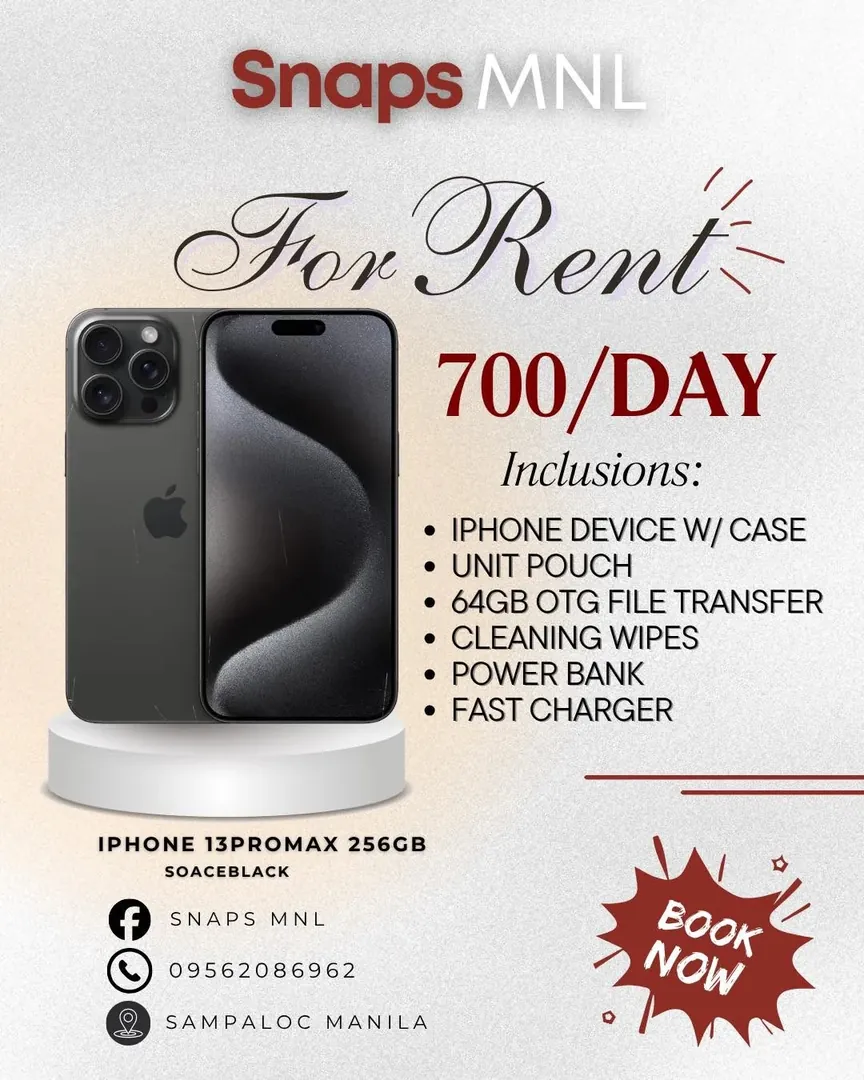
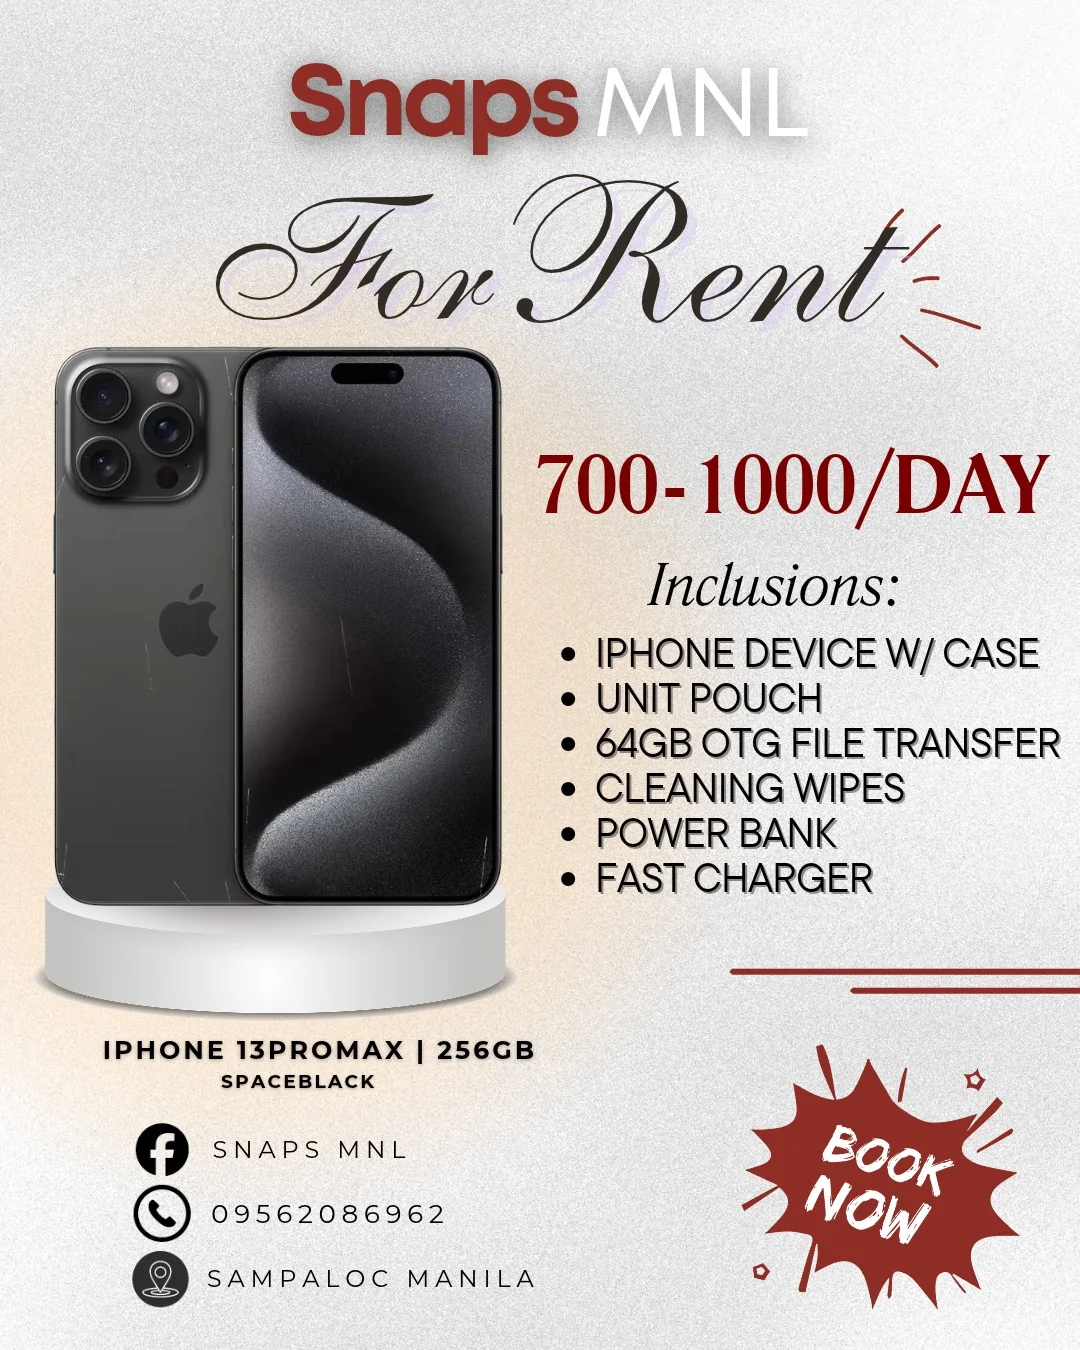
Rental: new rates poster, new unit posters, rates picture, 128GB OTG (#93)
* Add Snaps MNL phone rental booking page

Customers choose an iPhone, dates and hand-over, fill in their details and
agree to the rental terms. The page turns it into one booking message to
send on Messenger or by SMS; its labelled lines can be pasted into the
rental tracker. Shop details, models and rates are set in the SHOP block.

Claude-Session: https://claude.ai/code/session_01S7sDTBNGFBgL9AU7PC3pZN

* Use Snaps MNL's real phones, rates and inclusions on the booking page

Lists the five rental units with storage, colour and daily rate, shows the
rental estimate, and adds an "Every rental includes" section. The booking
message names the exact unit so the tracker can match it by colour.

Claude-Session: https://claude.ai/code/session_01S7sDTBNGFBgL9AU7PC3pZN

* Add Messenger link and ₱500 deposit; rename 13 Pro Max to Graphite

The Messenger button now opens the Snaps MNL page, the footer links to it,
and the estimate, booking message and steps show the refundable deposit.

Claude-Session: https://claude.ai/code/session_01S7sDTBNGFBgL9AU7PC3pZN

* Booking page: list "Get your deposit back" after "Return it on time"

Claude-Session: https://claude.ai/code/session_01S7sDTBNGFBgL9AU7PC3pZN

* Booking page: full renter information form and rental policies

Matches the Snaps MNL booking form: address, phone, usage purpose, social
handle, pick-up and return times, emergency contact, the three requirement
[…]

diff --git a/rent/admin/index.html b/rent/admin/index.html
@@ -449,6 +449,7 @@ h1,h2,h3{font-family:var(--display);font-stretch:112%;font-weight:800;line-heigh
     <section id="rates" hidden>
       <section class="card">
         <div class="chart-head"><div><h2>Daily rates</h2><p>The regular rate, and the higher rate on in-demand dates. The booking page shows each unit as a range, like ₱600 – ₱800 / day.</p></div></div>
+        <div class="suggest" id="posterUpdate" hidden style="flex-direction:column;align-items:stretch"></div>
         <div id="rateRows" style="margin-top:12px"></div>
         <div style="display:flex;gap:10px;align-items:center;margin-top:14px;flex-wrap:wrap"><button class="btn brand" type="button" id="ratesSave">Save rates</button><span class="err" id="ratesErr" role="alert"></span></div>
       </section>
@@ -745,7 +746,7 @@ h1,h2,h3{font-family:var(--display);font-stretch:112%;font-weight:800;line-heigh
         if(d && (d.error === 'signed_out' || d.error === 'bad_request')){ setToken(''); showEntry(''); return; }
         $('loadbar').textContent = 'Couldn\'t load. Tap Refresh.'; return;
       }
-      DATA = d; DATA.demandDates = d.demandDates || []; DATA.expenses = d.expenses || []; DATA.trackFrom = d.trackFrom || '';
+      DATA = d; DATA.demandDates = d.demandDates || []; DATA.inclusions = d.inclusions; DATA.ratesNote = d.ratesNote; DATA.rateCards = d.rateCards || []; DATA.expenses = d.expenses || []; DATA.trackFrom = d.trackFrom || '';
       DATA.allBookings = d.bookings || []; DATA.bookings = DATA.allBookings.filter(inScope);
       cleanText();
       $('shopName').textContent = d.shop.name || 'Phone rentals';
@@ -1140,7 +1141,50 @@ h1,h2,h3{font-family:var(--display);font-stretch:112%;font-weight:800;line-heigh
   /* New units: the form, and (on Snaps MNL's own page) a unit with a poster already on the site, ready to add. */
   var SUGGESTED = [{ id: '17pm-orange', name: 'iPhone 17 Pro Max', detail: '256GB · Cosmic Orange', rate: 1500, rateHigh: 2500, monthName: '17pm', first: true,
     poster: 'https://jeabels.github.io/photobooth-download/rent/units/iphone-17-pro-max-cosmic-orange.webp' }];
+  /* Snaps MNL's rates poster (Nov 2026): the rates, the 13 Pro Max now called Space Black, a 128GB OTG,
+     discounts for longer rentals, and the all-units rates picture. Offered once, while the sheet differs. */
+  var POSTER = {
+    units: { '17pm-orange': [1500, 2500], '16pro-desert': [1000, 2000], '14pm-black': [800, 1200], '13pm-blue': [700, 1000],
+      '13pm-graphite': [700, 1000, '256GB · Space Black'], '13-starlight-z1': [600, 800], '13-starlight-j2': [600, 800] },
+    note: 'Rates vary by date. In-demand dates (holidays, concerts and big events) use the higher in-demand rate. Discounted rates depending on the number of days rented: message us for longer rentals.',
+    rates: 'https://jeabels.github.io/photobooth-download/rent/units/rates-all-units.webp'
+  };
+  function posterChanges(){
+    if(foreign) return null;
+    var rates = [], lines = [];
+    DATA.units.forEach(function(u){
+      var p = POSTER.units[u.id]; if(!p) return;
+      var newDetail = p[2] && p[2] !== u.detail ? p[2] : null;
+      if(u.rate === p[0] && u.rateHigh === p[1] && !newDetail) return;
+      rates.push({ id: u.id, rate: p[0], rateHigh: p[1], detail: newDetail });
+      lines.push(u.name + ' · ' + (newDetail || u.detail) + ': ' + peso(p[0]) + ' – ' + peso(p[1]) + ' / day' +
+        (u.rate !== p[0] || u.rateHigh !== p[1] ? ' (was ' + peso(u.rate) + ' – ' + peso(u.rateHigh || u.rate) + ')' : '') + (newDetail ? ', renamed from ' + u.detail : ''));
+    });
+    var values = {};
+    if(/64\s*GB OTG/i.test(DATA.inclusions || '')){ values['Included with every rental'] = DATA.inclusions.replace(/64\s*GB OTG/i, '128GB OTG'); lines.push('Inclusions: 128GB OTG file transfer (was 64GB)'); }
+    if(!/discount/i.test(DATA.ratesNote || '')){ values['Rates note'] = POSTER.note; lines.push('Rates reminder: adds "Discounted rates depending on the number of days rented"'); }
+    if((DATA.rateCards || []).indexOf(POSTER.rates) < 0){ values['Rate card images'] = (DATA.rateCards || []).concat([POSTER.rates]).join('\n'); lines.push('The all-units RATES picture, above the units'); }
+    return lines.length ? { rates: rates, values: values, lines: lines } : null;
+  }
+  function posterBox(){
+    var box = $('posterUpdate'), ch = posterChanges();
+    box.innerHTML = ''; box.hidden = !ch;
+    if(!ch) return;
+    box.appendChild(el('b', '', 'Update to your new rates poster'));
+    var ul = el('ul'); ul.style.margin = '6px 0 4px 18px'; ul.style.fontSize = '13.5px';
+    ch.lines.forEach(function(t){ ul.appendChild(el('li', '', t)); }); box.appendChild(ul);
+    var go = el('button', 'btn brand small', 'Apply all'); go.type = 'button'; go.style.alignSelf = 'flex-start';
+    go.addEventListener('click', function(){
+      go.disabled = true; go.textContent = 'Saving…';
+      (ch.rates.length ? api('saveRates', { rates: ch.rates }) : Promise.resolve({ ok: true }))
+        .then(function(d){ if(!(d && d.ok)) throw d; if(d.units) DATA.units = d.units; return Object.keys(ch.values).length ? api('saveSettings', { values: ch.values }) : { ok: true }; })
+        .then(function(d){ if(!(d && d.ok)) throw d; toast('Rates updated. The booking page shows them within a minute.'); load(); },
+          function(d){ go.disabled = false; go.textContent = 'Apply all'; alert(d && d.error === 'bad_request' ? ERR.old_script : d && d.error === 'signed_out' ? 'You were signed out. Sign in again.' : 'Couldn\'t save. Try again.'); });
+    });
+    box.appendChild(go);
+  }
   function suggestUnits(){
+    posterBox();
     var box = $('unitSuggest'), norm = function(x){ return String(x || '').toLowerCase().replace(/[^a-z0-9]/g, ''); };
     var todo = foreign ? [] : SUGGESTED.filter(function(x){ return !DATA.units.some(function(u){ return u.id === x.id || norm(u.name + u.detail) === norm(x.name + x.detail); }); });
     box.innerHTML = ''; box.hidden = !todo.length;

diff --git a/rent/index.html b/rent/index.html
@@ -40,13 +40,13 @@ var SHOP = {
   /* How the banner sits in the header: zoom in % (100 shows the whole width), the point that stays
      in view when zoomed (left-right, top-bottom %), and its shape as width / height (0 = the picture's own). */
   bannerZoom: 100, bannerX: 50, bannerY: 50, bannerShape: 0,
-  rateCards: [],          /* price list pictures shown above the units */
+  rateCards: ["units/rates-all-units.webp"],   /* price list pictures shown above the units */
   delivery: [],           /* [{ area, fee }] delivery areas; empty means renters pay the courier themselves */
   promos: false,          /* true shows the promo code box (codes are checked by the booking sheet) */
   /* Each unit has a regular `rate` and a `rateHigh` for in-demand dates: [{ from, to, label }] as
      "YYYY-MM-DD". A rental day that touches an in-demand date is charged rateHigh. */
   demandDates: [],
-  ratesNote: "Rates vary by date. In-demand dates (holidays, concerts and big events) use the higher in-demand rate.",
+  ratesNote: "Rates vary by date. In-demand dates (holidays, concerts and big events) use the higher in-demand rate. Discounted rates depending on the number of days rented: message us for longer rentals.",
   deposit: 500,
   hoursPerDay: 25,        /* one rental day = 25 hours from pick-up */
   lateFeePerHour: 100,
@@ -58,17 +58,17 @@ var SHOP = {
   /* `id` must match UNIT_IDS in rent/google-sheet/Code.gs (the sheet's Unit ID column). */
   models: [
     { id: "17pm-orange",     name: "iPhone 17 Pro Max", detail: "256GB · Cosmic Orange",   rate: 1500, rateHigh: 2500, poster: "units/iphone-17-pro-max-cosmic-orange.webp" },
-    { id: "16pro-desert",    name: "iPhone 16 Pro",     detail: "128GB · Desert Titanium", rate: 1000, rateHigh: 1800, poster: "units/iphone-16-pro-desert-titanium.webp" },
-    { id: "14pm-black",      name: "iPhone 14 Pro Max", detail: "128GB · Space Black",     rate: 800,  rateHigh: 1100, poster: "units/iphone-14-pro-max.webp" },
-    { id: "13pm-blue",       name: "iPhone 13 Pro Max", detail: "256GB · Sierra Blue",     rate: 700,  rateHigh: 900, poster: "units/iphone-13-pro-max-sierra-blue.webp" },
-    { id: "13pm-graphite",   name: "iPhone 13 Pro Max", detail: "256GB · Graphite",        rate: 700,  rateHigh: 900, poster: "units/iphone-13-pro-max-graphite.webp" },
+    { id: "16pro-desert",    name: "iPhone 16 Pro",     detail: "128GB · Desert Titanium", rate: 1000, rateHigh: 2000, poster: "units/iphone-16-pro-desert-titanium.webp" },
+    { id: "14pm-black",      name: "iPhone 14 Pro Max", detail: "128GB · Space Black",     rate: 800,  rateHigh: 1200, poster: "units/iphone-14-pro-max.webp" },
+    { id: "13pm-blue",       name: "iPhone 13 Pro Max", detail: "256GB · Sierra Blue",     rate: 700,  rateHigh: 1000, poster: "units/iphone-13-pro-max-sierra-blue.webp" },
+    { id: "13pm-graphite",   name: "iPhone 13 Pro Max", detail: "256GB · Space Black",     rate: 700,  rateHigh: 1000, poster: "units/iphone-13-pro-max-graphite.webp" },
     { id: "13-starlight-z1", name: "iPhone 13",         detail: "128GB · Starlight #Z1",   rate: 600,  rateHigh: 800, poster: "units/iphone-13-starlight.webp" },
     { id: "13-starlight-j2", name: "iPhone 13",         detail: "128GB · Starlight #J2",   rate: 600,  rateHigh: 800, poster: "units/iphone-13-starlight.webp" }
   ],
   /* Google Sheet web app (rent/google-sheet/Code.gs). When set, bookings are saved to the
      sheet and units already booked for the chosen times can't be picked. Empty turns this off. */
   bookingSheet: "https://script.google.com/macros/s/AKfycbwRmFXakF4wRTaYUwm5BcgIwgAMEvOm4E7C4YDVSeqcHrE96X7QB1SWi_7gqboml73pwg/exec",
-  inclusions: ["iPhone with case", "Unit pouch", "64GB OTG file transfer", "Cleaning wipes", "Power bank", "Fast charger"],
+  inclusions: ["iPhone with case", "Unit pouch", "128GB OTG file transfer", "Cleaning wipes", "Power bank", "Fast charger"],
   handover: ["Pick up at Zukiya Residences", "Delivery"],
   uploads: [
     { id: "upSelfie",  label: "Selfie holding 2 different government IDs" },
